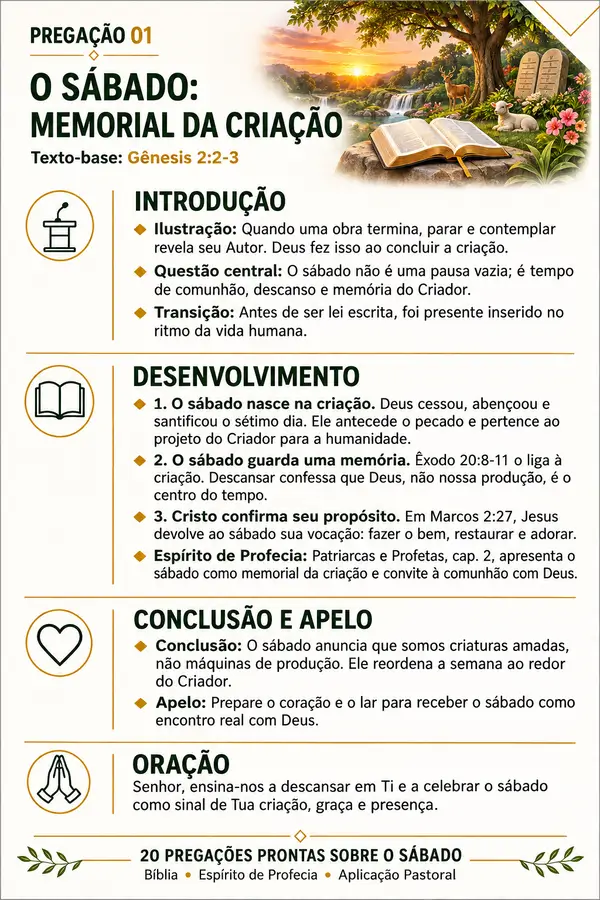
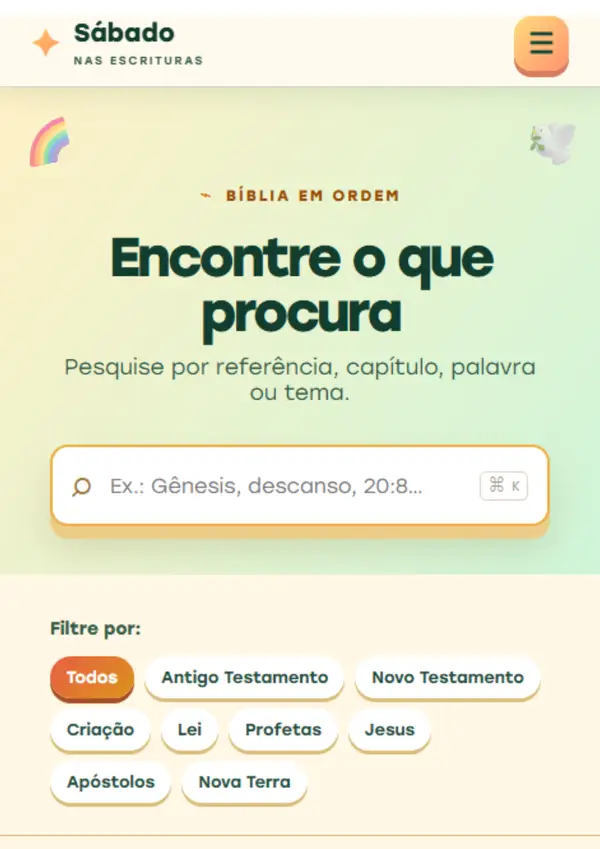
atualização página sábado

diff --git a/lp/sabado/index.html b/lp/sabado/index.html
@@ -18,7 +18,7 @@
     <meta property="og:url" content="https://www.blacknous.com">
     
     <!--UTM E PIXEL CODE-->
-    <script src="https://cashflow.mentoriaprocesso.com/t/p.js?w=b24dd942-a019-40bd-93b0-483c34e79915&o=cb73ba75-b1f9-4627-97c4-d55636f4ab0e" data-offer="cb73ba75-b1f9-4627-97c4-d55636f4ab0e" data-nowprocket data-no-minify="1" data-no-optimize="1" data-cfasync="false" async></script>
+    
 
     <style>
     @font-face{font-family:Stolzl;src:url('fonts/Stolzl-Book-400.woff2') format('woff2');font-weight:400;font-display:swap}
@@ -29,14 +29,14 @@
     h1,h2,h3{line-height:1.18} .section-title{font-size:clamp(2rem,3.5vw,3rem);text-align:center;letter-spacing:-.035em;margin-bottom:22px}.subheadline{font-size:1.15rem;color:var(--muted)}.center{text-align:center}.highlight{color:#1d3557;font-weight:700}.navy .highlight{color:var(--yellow)}.keyword{color:#1d3557;font-weight:700}.navy .keyword{color:var(--yellow)}.keyword-accent{display:inline-block;padding:0 .18em;border-radius:.2em;background:var(--yellow);color:var(--navy);font-weight:700}
     .topbar{padding:12px 20px;color:#fff;background:#ba3838;text-align:center;font-size:1rem;font-weight:700}.hero-grid{display:grid;grid-template-areas:'head' 'mockup' 'sub';gap:22px;text-align:center}.hero-left{grid-area:head}.hero-right{grid-area:mockup;min-width:0}.hero-sub{grid-area:sub;color:#fff;font-size:clamp(1.15rem,2.2vw,1.35rem);font-weight:500;line-height:1.65}.hero-title{font-size:clamp(1.9rem,4vw,3.35rem);letter-spacing:-.045em;text-transform:uppercase}.hero-right img{width:min(100%,500px);margin:auto}.hero-bottom{padding-top:0;text-align:center}.hero-access{margin-top:14px;color:#fff;font-weight:700}
     .btn{display:inline-block;width:min(100%,400px);padding:18px 25px;border-radius:16px;background:var(--green);color:#fff;text-align:center;text-decoration:none;font-weight:700;font-size:1.15rem;letter-spacing:.02em;box-shadow:0 6px 0 var(--green-dark);transition:transform .2s,box-shadow .2s}.btn:hover{transform:translateY(3px);box-shadow:0 3px 0 var(--green-dark)}
-    .carousel{overflow:hidden;cursor:grab;touch-action:pan-y}.carousel:active{cursor:grabbing}.carousel-track{display:flex;gap:20px;width:max-content;padding:30px 20px 45px}.carousel img{width:70vw;max-width:400px;flex:none;border:4px solid #fff;border-radius:22px;box-shadow:0 6px 0 #b6cbe8;user-select:none;-webkit-user-drag:none}
+    .carousel{overflow:hidden;cursor:grab;touch-action:pan-y}.carousel:active{cursor:grabbing}.carousel-track{display:flex;gap:20px;width:max-content;padding:30px 20px 45px}.carousel-slide{position:relative;width:70vw;max-width:400px;flex:none;overflow:hidden;border:4px solid #fff;border-radius:22px;box-shadow:0 6px 0 #b6cbe8;user-select:none}.carousel-slide img{width:100%;border:0;border-radius:0;box-shadow:none;-webkit-user-drag:none}.carousel-label{position:absolute;right:0;bottom:0;left:0;z-index:1;display:block;padding:10px 16px;background:var(--navy-2);color:#fff;font-size:1rem;font-weight:700;line-height:1.2;text-align:center}
     .grid-2,.grid-3,.plans{display:grid;grid-template-columns:1fr;gap:28px}.card,.bonus-card,.plan,.faq-item{background:#fff;border:2px solid var(--line);border-radius:20px;box-shadow:0 5px 0 #b6cbe8}.card{padding:30px 24px;text-align:center}.card h3,.bonus-card h3{margin-bottom:10px;color:#1d3557;font-size:1.35rem}.card p,.bonus-card p{color:var(--muted)}.feature-icon{display:grid;place-items:center;width:68px;height:68px;margin:0 auto 18px;border-radius:22px;background:#e8f1ff;font-size:2.1rem;font-style:normal}
-    .video-wrapper{width:min(100%,500px);margin:30px auto}.video-wrapper img{display:block;width:100%;height:auto}
+    .video-wrapper{width:min(80vw,300px);aspect-ratio:9/16;margin:30px auto;overflow:hidden;border:4px solid #fff;border-radius:22px;background:#000;box-shadow:0 6px 0 #b6cbe8}.video-wrapper iframe{display:block;width:100%;height:100%;border:0;pointer-events:none}
     .product-grid{display:grid;grid-template-areas:'title' 'image' 'list';gap:24px;align-items:center;min-width:0}.product-title{grid-area:title;min-width:0}.product-image{grid-area:image;min-width:0}.product-list{grid-area:list;min-width:0}.product-image img{width:min(100%,500px);margin:auto}.list{list-style:none;margin-top:18px}.list li{display:flex;gap:10px;margin:14px 0;min-width:0}.list li>*{min-width:0}.list li::before{content:'✓';color:var(--green);font-weight:700}.list strong{display:block;color:#fff}.course-panel{overflow:hidden;border:1px solid rgba(255,255,255,.2);border-radius:18px;background:#151a39;box-shadow:0 8px 0 rgba(0,0,0,.2)}.course-panel-head{display:flex;align-items:center;gap:12px;padding:18px 20px;background:#202752}.course-panel-head i{display:grid;place-items:center;width:38px;height:38px;flex:none;border-radius:11px;background:var(--green);font-style:normal}.course-panel-head h3{font-size:1.05rem}.course-panel-head p{margin-top:2px;color:#d4ddf8;font-size:.88rem}.course-modules{display:grid;gap:10px;padding:12px}.course-module{display:grid;grid-template-columns:40px minmax(0,1fr) auto;align-items:center;gap:12px;padding:14px;border:1px solid #39426e;border-radius:13px;background:#10152f}.module-number{display:grid;place-items:center;width:40px;height:40px;border-radius:50%;background:#2b3568;color:var(--yellow);font-size:.86rem;font-weight:700}.module-content{min-width:0}.module-content h4{font-size:1rem;overflow-wrap:anywhere}.module-content p{margin-top:2px;color:#c5cee9;font-size:.84rem;overflow-wrap:anywhere}.module-time{white-space:nowrap;color:#9eacd8;font-size:.78rem;font-weight:700}.course-more{padding:0 12px 12px;color:#c5cee9;font-size:.84rem;font-weight:700;text-align:center}.bonus-card{padding:20px;display:flex;flex-direction:column;text-align:center}.bonus-card img{width:calc(100% + 40px);max-width:none;margin:0 -20px 16px}.tag{align-self:center;margin-bottom:14px;padding:5px 15px;border-radius:20px;background:var(--orange);color:#fff;font-size:.9rem;font-weight:700;text-transform:uppercase}.bonus-value{width:100%;margin:20px 0 0;overflow:hidden;border:1px solid #d8dfcc;border-radius:14px;background:#fff;box-shadow:0 5px 0 #b9ceb0,0 10px 22px rgba(31,66,35,.1);text-align:center}.promo-kicker{display:block;padding:8px 10px;background:linear-gradient(135deg,#27314f,#18213d);color:#fff;font-size:.68rem;font-weight:700;letter-spacing:.09em;text-transform:uppercase}.bonus-price-row{display:grid;grid-template-columns:minmax(0,1fr) 28px minmax(0,1.15fr);align-items:stretch;padding:10px}.price-state{display:flex;min-width:0;min-height:76px;flex-direction:column;align-items:center;justify-content:center;padding:8px 4px;border-radius:10px}.price-state.old{background:#fff4f2}.price-state.free{background:linear-gradient(135deg,#ebfae8,#dff5dc)}.price-label{display:block;margin-bottom:4px;color:#667085;font-size:.58rem;font-weight:700;letter-spacing:.04em;line-height:1.25;text-transform:uppercase}.price-state.old del{color:var(--red);font-size:1.08rem;font-weight:700;text-decoration-thickness:2px}.price-state.free strong{color:var(--green-dark);font-size:1.3rem;line-height:1}.price-state.free small{margin-top:4px;color:#3e7941;font-size:.72rem;font-weight:700}.promo-arrow{display:grid;place-items:center;color:var(--orange);font-size:1.35rem;font-weight:700}.bonus-benefit{margin-top:auto;padding-top:18px;color:#399b3d;font-weight:700}
     .plans{width:100%;max-width:1000px;margin:auto;min-width:0}.plan{width:100%;min-width:0;padding:38px 20px;text-align:center}.plan.complete{border-color:var(--green);box-shadow:0 7px 0 var(--green-dark)}.badge{display:inline-block;max-width:100%;margin-top:-56px;margin-bottom:20px;padding:5px 18px;border-radius:20px;background:var(--orange);color:#fff;font-weight:700;overflow-wrap:anywhere}.plan-title{color:#1d3557;font-size:1.8rem;font-weight:700;overflow-wrap:anywhere}.plan-sub{margin:4px 0 18px;color:#1d3557;font-weight:700;overflow-wrap:anywhere}.plan img{width:auto;max-width:100%;margin:0 auto 16px}.plan .plan-product-image{width:100%;max-width:none;margin:0 auto 16px}.plan img[alt="Pagamento seguro"]{max-width:240px;margin-bottom:0}.plan .list{display:inline-block;max-width:100%;text-align:left;font-size:.96rem}.plan .plan-features{display:block;margin:18px 0;text-align:left}.plan .plan-features li{display:block;margin:10px 0;overflow-wrap:anywhere}.plan .plan-features li::before{content:none}.old-price{color:var(--red);font-weight:700;text-decoration:line-through}.price{display:flex;align-items:flex-start;justify-content:center;margin:8px 0;color:#399b3d;font-weight:700;line-height:1}.price-currency{align-self:center;margin:0 .28rem 0 0;font-size:1.7rem}.price-whole{font-size:clamp(6rem,9vw,7.5rem);letter-spacing:-.07em}.price-cents{margin:.5rem 0 0 .14rem;font-size:2.1rem}.installments{color:var(--muted);overflow-wrap:anywhere}.savings{margin-top:6px;color:var(--green-dark);font-weight:700}.mobile-offer{color:var(--red);font-weight:700;animation:pulse 1.5s infinite}.arrow{color:var(--red);font-size:30px;animation:bounce 1s infinite}@keyframes pulse{50%{opacity:.6}}@keyframes bounce{50%{transform:translateY(10px)}}
     .testimonials .section-title{margin-bottom:0}.testimonial-note{margin:12px auto 0;max-width:620px;color:var(--muted)}.testimonial-carousel{margin-top:18px}.testimonial-carousel .carousel-track{padding-top:18px}.testimonial-carousel img{width:auto!important;height:auto!important;max-width:calc(100vw - 48px);max-height:55vh;border-color:#fff;box-shadow:0 6px 0 #c8b27e}.authority-grid{display:grid;grid-template-columns:1fr;gap:32px;align-items:center}.authority-image img{width:auto;max-width:100%;margin:auto;border:5px solid #fff;border-radius:24px;box-shadow:0 8px 0 #b6cbe8}.authority-copy .section-title{text-align:left}.authority-copy p{font-size:1.06rem;color:var(--muted)}
     .faq{background:linear-gradient(135deg,var(--navy),#101633 55%,#191a3b);color:#fff}.faq .section-title{color:#fff}.faq-item{margin-bottom:15px;overflow:hidden;border-color:#b8c7e6;background:#292c4a;box-shadow:0 6px 0 #0c0f24}.faq-question{display:flex;justify-content:space-between;gap:20px;padding:20px;cursor:pointer;list-style:none;color:#fff;font-size:1.12rem;font-weight:700}.faq-question::-webkit-details-marker{display:none}.faq-question::after{content:'+';font-size:1.5rem}.faq-item[open] .faq-question::after{content:'−'}.faq-answer{padding:0 20px 20px;background:#f2f5fc;border-top:1px solid #d5deef;color:#27324c}.footer{padding:40px 20px;background:var(--navy);color:#fff;text-align:center}.footer .container{padding:0}.footer p+p{margin-top:20px}.small{font-size:.82rem}
-    @media(min-width:768px){.hero-grid{grid-template-columns:1fr 1fr;grid-template-areas:'head mockup' 'sub mockup';text-align:left;align-items:center}.hero-title{font-size:clamp(1.8rem,3.25vw,2.8rem)}.hero-bottom{text-align:left;padding-left:5%}.hero-bottom .hero-access{width:min(100%,400px);text-align:center}.product-grid{grid-template-columns:1fr 1fr;grid-template-areas:'title image' 'list image';text-align:left}.grid-2{grid-template-columns:1fr 1fr}.grid-3{grid-template-columns:repeat(3,1fr)}.plans{grid-template-columns:1fr 1fr;gap:60px}.mobile-offer,.arrow{display:none}.carousel img{width:40vw}.testimonial-carousel img{max-width:calc(100vw - 80px);max-height:560px}.authority-grid{grid-template-columns:minmax(0,.9fr) minmax(0,1.1fr);gap:60px}.authority-image{order:2}.authority-copy{order:1}}
+    @media(min-width:768px){.hero-grid{grid-template-columns:1fr 1fr;grid-template-areas:'head mockup' 'sub mockup';text-align:left;align-items:center}.hero-title{font-size:clamp(1.8rem,3.25vw,2.8rem)}.hero-bottom{text-align:left;padding-left:5%}.hero-bottom .hero-access{width:min(100%,400px);text-align:center}.product-grid{grid-template-columns:1fr 1fr;grid-template-areas:'title image' 'list image';text-align:left}.grid-2{grid-template-columns:1fr 1fr}.grid-3{grid-template-columns:repeat(3,1fr)}.plans{grid-template-columns:1fr 1fr;gap:60px}.mobile-offer,.arrow{display:none}.carousel-slide{width:40vw}.video-wrapper{width:280px}.testimonial-carousel img{max-width:calc(100vw - 80px);max-height:560px}.authority-grid{grid-template-columns:minmax(0,.9fr) minmax(0,1.1fr);gap:60px}.authority-image{order:2}.authority-copy{order:1}}
     @media(max-width:767px){.hero-section .container{width:96%}.hero-title{width:100%;text-wrap:wrap}.product-title{text-align:center}.course-module{grid-template-columns:36px minmax(0,1fr)}.module-number{width:36px;height:36px}.module-time{grid-column:2;color:#9eacd8}.faq-question{gap:12px;padding:18px;overflow-wrap:anywhere}}
     </style>
   </head>
@@ -78,13 +78,13 @@
         </div>
         <div class="carousel" id="carousel">
           <div class="carousel-track" id="carousel-track">
-            <img src="imgs/carrossel-1.webp" alt="Demonstração do Sábado Finder" loading="lazy">
-            <img src="imgs/carrossel-2.webp" alt="Demonstração do Sábado Finder" loading="lazy">
-            <img src="imgs/carrossel-3.webp" alt="Demonstração do Sábado Finder" loading="lazy">
-            <img src="imgs/carrossel-4.webp" alt="Demonstração do Sábado Finder" loading="lazy">
-            <img src="imgs/carrossel-5.webp" alt="Demonstração do Sábado Finder" loading="lazy">
-            <img src="imgs/carrossel-6.webp" alt="Demonstração do Sábado Finder" loading="lazy">
-            <img src="imgs/carrossel-7.webp" alt="Demonstração do Sábado Finder" loading="lazy">
+            <div class="carousel-slide"><img src="imgs/carrossel-1.webp" alt="Demonstração do Sábado Finder em eBook" loading="lazy"><span class="carousel-label">eBook</span></div>
+            <div class="carousel-slide"><img src="imgs/carrossel-2.webp" alt="Demonstração do Sábado Finder no aplicativo" loading="lazy"><span class="carousel-label">Aplicativo</span></div>
+            <div class="carousel-slide"><img src="imgs/carrossel-3.webp" alt="Demonstração do Sábado Finder em eBook" loading="lazy"><span class="carousel-label">eBook</span></div>
+            <div class="carousel-slide"><img src="imgs/carrossel-4.webp" alt="Demonstração do Sábado Finder no aplicativo" loading="lazy"><span class="carousel-label">Aplicativo</span></div>
+            <div class="carousel-slide"><img src="imgs/carrossel-5.webp" alt="Demonstração do Sábado Finder em eBook" loading="lazy"><span class="carousel-label">eBook</span></div>
+            <div class="carousel-slide"><img src="imgs/carrossel-6.webp" alt="Demonstração do Sábado Finder em eBook" loading="lazy"><span class="carousel-label">eBook</span></div>
+            <div class="carousel-slide"><img src="imgs/carrossel-7.webp" alt="Demonstração do Sábado Finder no aplicativo" loading="lazy"><span class="carousel-label">Aplicativo</span></div>
           </div>
         </div>
         <div class="container" style="padding-top:0">
@@ -157,7 +157,13 @@
             Mais de 1.200 adventistas já pararam de passar vergonha. Falta só você.
           </h2>
           <div class="video-wrapper">
-            <img src="imgs/mockup-principal.webp" alt="Demonstração do Sábado Finder" loading="lazy">
+            <iframe
+              src="https://www.youtube.com/embed/hf1Sz2sggag?autoplay=1&amp;mute=1&amp;loop=1&amp;playlist=hf1Sz2sggag&amp;controls=0&amp;modestbranding=1&amp;playsinline=1&amp;rel=0&amp;disablekb=1"
+              title="Demonstração do Sábado Finder"
+              allow="autoplay; encrypted-media"
+              tabindex="-1"
+              aria-hidden="true">
+            </iframe>
           </div>
           <p class="subheadline" style="margin-bottom:30px">
             O acesso é imediato, vitalício e sem mensalidade. Em 30 segundos você já pode estar com sua biblioteca funcionando no seu celular. A decisão de nunca mais ser pego desprevenido está a um clique.
@@ -894,7 +900,7 @@
     </footer>
     <script>
       const now=new Date();document.getElementById('ano').textContent=now.getFullYear();document.getElementById('data-oferta').textContent=now.toLocaleDateString('pt-BR');
-      (()=>{const initCarousel=(box,track)=>{const slides=[...track.children];for(let i=0;i<2;i++)slides.forEach(s=>track.appendChild(s.cloneNode(true)));let drag=false,start=0,origin=0,pause=0,ready=false;const width=()=>track.scrollWidth/3;const reset=()=>{const w=width();if(box.scrollLeft>=w*2)box.scrollLeft-=w;if(box.scrollLeft<w*.05)box.scrollLeft+=w};const init=()=>{if(!ready&&width()){box.scrollLeft=width();ready=true}};box.addEventListener('pointerdown',e=>{drag=true;start=e.clientX;origin=box.scrollLeft;box.setPointerCapture(e.pointerId);pause=Date.now()+2500});box.addEventListener('pointermove',e=>{if(drag){box.scrollLeft=origin-(e.clientX-start)*1.4;reset()}});box.addEventListener('pointerup',()=>{drag=false;pause=Date.now()+2500});box.addEventListener('pointercancel',()=>drag=false);box.addEventListener('wheel',()=>pause=Date.now()+2500,{passive:true});window.addEventListener('load',init,{once:true});const move=()=>{init();if(ready&&!drag&&Date.now()>pause)box.scrollLeft+=.55;if(ready)reset();requestAnimationFrame(move)};move()};initCarousel(document.getElementById('carousel'),document.getElementById('carousel-track'));initCarousel(document.getElementById('testimonials-carousel'),document.getElementById('testimonials-track'))})();
+      (()=>{const initCarousel=(box,track)=>{if(!box||!track)return;const slides=[...track.children];for(let i=0;i<2;i++)slides.forEach(s=>track.appendChild(s.cloneNode(true)));let drag=false,start=0,origin=0,pause=0,ready=false,inView=false,timer=null;const width=()=>track.scrollWidth/3;const reset=()=>{const w=width();if(box.scrollLeft>=w*2)box.scrollLeft-=w;if(box.scrollLeft<w*.05)box.scrollLeft+=w};const init=()=>{if(!ready&&width()){box.scrollLeft=width();ready=true}};const tick=()=>{init();if(ready&&!drag&&Date.now()>pause){box.scrollLeft+=1;reset()}};const stop=()=>{if(timer){clearInterval(timer);timer=null}};const play=()=>{if(inView&&!document.hidden&&!timer)timer=setInterval(tick,30)};if('IntersectionObserver'in window){new IntersectionObserver(entries=>{inView=entries[0].isIntersecting;if(inView)play();else stop()},{threshold:.1}).observe(box)}else{inView=true;play()}document.addEventListener('visibilitychange',()=>{if(document.hidden)stop();else play()});box.addEventListener('pointerdown',e=>{drag=true;start=e.clientX;origin=box.scrollLeft;box.setPointerCapture(e.pointerId);pause=Date.now()+2500});box.addEventListener('pointermove',e=>{if(drag){box.scrollLeft=origin-(e.clientX-start)*1.4;reset()}});box.addEventListener('pointerup',()=>{drag=false;pause=Date.now()+2500});box.addEventListener('pointercancel',()=>drag=false);box.addEventListener('wheel',()=>pause=Date.now()+2500,{passive:true});window.addEventListener('load',init,{once:true});window.addEventListener('resize',init)};initCarousel(document.getElementById('carousel'),document.getElementById('carousel-track'));initCarousel(document.getElementById('testimonials-carousel'),document.getElementById('testimonials-track'))})();
     </script>
   </body>
 </html>
